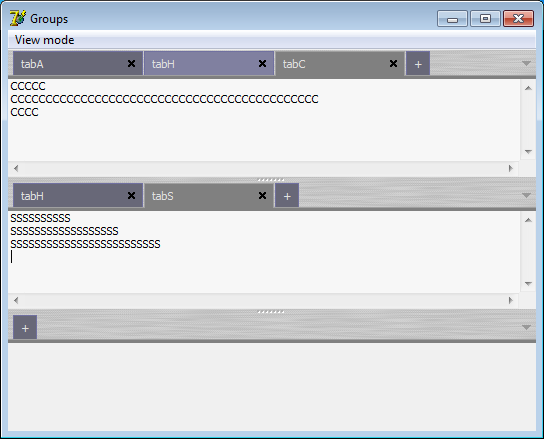
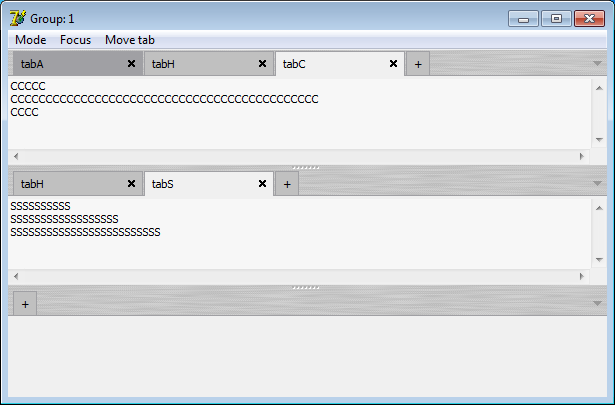
-

Changed region(s): [[0.0, 0.0, 1.0, 1.0]]

diff --git a/README.md b/README.md
@@ -2,7 +2,8 @@ ATGroups
 ========
 
 Delphi component.
-It 'll be used in SynWrite text editor. It contains 4 page-controls (each based on ATTabs), and maniupulates these pages: depending on Mode prop, it makes visible 1, 2, 3 or all 4 pages, with splitters between them, so you can resize pages. Also 2x2 mode exists: 4 cells grid with pages. Allows to drag-drop tabs between all 4 pages. Tested with TMemo as editor control, of course can be used with other memos or frames. Allows to use SpTBX (option) to theme splitters and ATTabs.
+
+It 'll be used in SynWrite text editor. It contains 6 page-controls, each based on ATTabs, and maniupulates these pages: depending on Mode prop, it makes visible 1, 2, 3 or all 4 pages, with splitters between them, so you can resize pages. Also 2x2 mode exists: 4 cells grid with pages. Allows to drag-drop tabs between all 4 pages. Tested with TMemo as editor control, of course can be used with other memos or frames. Allows to use SpTBX (option) to theme splitters and ATTabs.
 
 mode 2x1
 
@@ -14,4 +15,8 @@ mode 1x3
 
 mode 2x2 grid
 
-![img](mode4grid.png?raw=true)
+![img](mode2x2.png?raw=true)
+
+mode 3x2 grid
+
+![img](mode3x2.png?raw=true)
